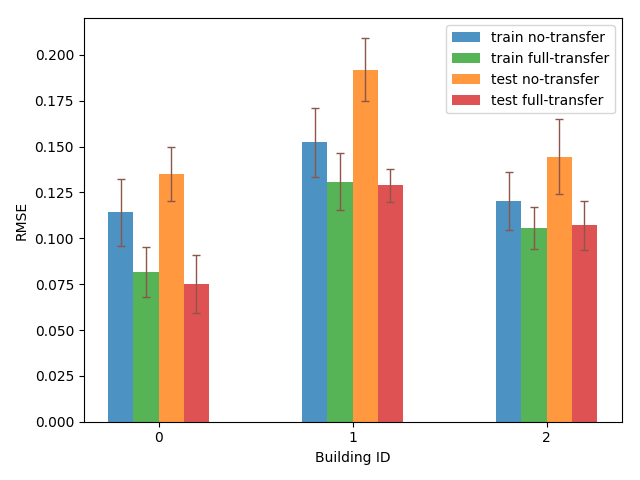
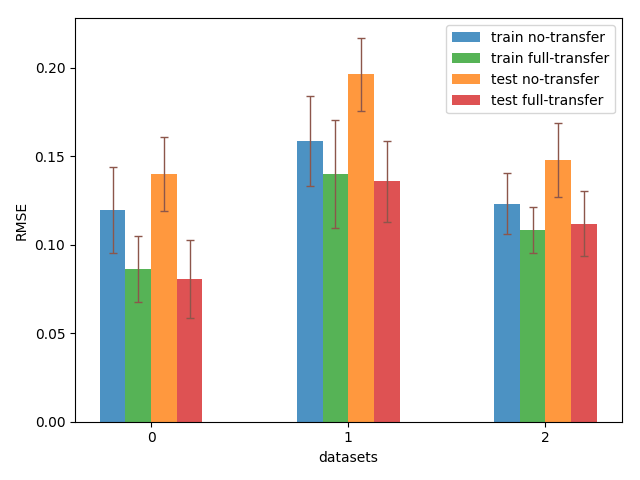
results for synthetic data plotted

diff --git a/transfer-learning/mcmc-transfer-learning/mcmc_transfer_regression.py b/transfer-learning/mcmc-transfer-learning/mcmc_transfer_regression.py
@@ -201,6 +201,9 @@ class TransferLearningMCMC:
 
     def rmse(self, predictions, targets):
         return np.sqrt(((predictions - targets) ** 2).mean())
+        
+#    def rmse(self, predictions, targets):
+#        return np.sum((targets- predictions) ** 2)/np.sum((targets - np.mean(targets)))
 
     def likelihood_func(self, neuralnet, data, w, tausq):
         y = data[:, self.topology[0]:]
@@ -651,7 +654,6 @@ class TransferLearningMCMC:
         stdscr.addstr(14, 4, "Mean: " + str(rmse_target_train_trf) + " Std: " + str(rmsetarget_std_train_trf))
         stdscr.addstr(16, 0, "Target Test rmse w/ transfer:")
         stdscr.addstr(17, 4, "Mean: " + str(rmse_target_test_trf) + " Std: " + str(rmsetarget_std_test_trf))
-        stdscr.getkey()
         stdscr.refresh()
 
 
@@ -695,7 +697,7 @@ if __name__ == '__main__':
 
 
     input = 4
-    hidden = 10
+    hidden = 15
     output = 1
     topology = [input, hidden, output]
 
@@ -711,39 +713,44 @@ if __name__ == '__main__':
 #    floor_id  = [0, 1, 2, 3]
     traindata = []
     testdata = []
-
-    traindata.append(np.genfromtxt('../../datasets/synthetic_data/source.csv',
-                                delimiter=','))
-    testdata.append(np.genfromtxt('../../datasets/synthetic_data/source.csv',
-                                delimiter=','))
-
+    
     stdscr = curses.initscr()
     curses.noecho()
     curses.cbreak()
 
-    targettraindata = np.genfromtxt('../../datasets/synthetic_data/target_train.csv', delimiter=',')
-    targettestdata = np.genfromtxt('../../datasets/synthetic_data/target_test.csv', delimiter=',')
-
-    random.seed(time.time())
-
-    numSamples = 2500# need to decide yourself
-    burnin = 0.1 * numSamples
-
     try:
-        mcmc_task = TransferLearningMCMC(numSamples, numSources, traindata, testdata, targettraindata, targettestdata, topology,  directory='synthetic_data')  # declare class
+    
+        targettraindata = np.genfromtxt('../../datasets/synthetic_data/target_train.csv', delimiter=',')
+        targettestdata = np.genfromtxt('../../datasets/synthetic_data/target_test.csv', delimiter=',')
+            
+        for index in range(7,8):
+            stdscr.clear()
+            traindata.append(np.genfromtxt('../../datasets/synthetic_data/source'+str(index + 1)+'.csv',
+                                        delimiter=','))
+            testdata.append(np.genfromtxt('../../datasets/synthetic_data/source'+str(index + 1)+'.csv',
+                                        delimiter=','))
 
-        # generate random weights
-        w_random = np.random.randn(mcmc_task.wsize)
-        w_random_target = np.random.randn(mcmc_task.wsize_target)
+            random.seed(time.time())
 
-    # start sampling
-        fx_train, _, accept_ratio = mcmc_task.sampler(w_random, w_random_target, save_knowledge=True, stdscr=stdscr)
-        # display train and test accuracies
-        mcmc_task.display_rmse()
+            numSamples = 4000# need to decide yourself
+
+
+            mcmc_task = TransferLearningMCMC(numSamples, numSources, traindata, testdata, targettraindata, targettestdata, topology,  directory='synthetic_data '+str(index+1))  # declare class
+
+            # generate random weights
+            w_random = np.random.randn(mcmc_task.wsize)
+            w_random_target = np.random.randn(mcmc_task.wsize_target)
+
+            # start sampling
+            fx_train, _, accept_ratio = mcmc_task.sampler(w_random, w_random_target, save_knowledge=True, stdscr=stdscr)
+            # display train and test accuracies
+            mcmc_task.display_rmse()
+
+
+            # Plot the accuracies and rmse
+            mcmc_task.plot_rmse('synthetic_data_'+str(index + 1))
+        
     finally:
-        curses.echo()
+        curses.echo()   
         curses.nocbreak()
         curses.endwin()
-
-    # Plot the accuracies and rmse
-    mcmc_task.plot_rmse('synthetic_data')

diff --git a/transfer-learning/mcmc-transfer-learning/synthetic_data/plot_rmse.py b/transfer-learning/mcmc-transfer-learning/synthetic_data/plot_rmse.py
@@ -1,0 +1,94 @@
+import numpy as np
+import matplotlib.pyplot as plt
+
+source_index = [index + 1 for index in range(10)]
+
+train_rmse = np.zeros((len(source_index)))
+test_rmse = np.zeros((len(source_index)))
+
+train_rmse_trf = np.zeros((len(source_index)))
+test_rmse_trf = np.zeros((len(source_index)))
+
+train_std_trf = np.zeros((len(source_index)))
+test_std_trf = np.zeros((len(source_index)))
+
+train_std = np.zeros((len(source_index)))
+test_std = np.zeros((len(source_index)))
+
+
+for index in source_index:
+
+    rmsetrain_trf = np.genfromtxt('synthetic_data '+str(index)+'/targettrftrainrmse.csv')
+    rmsetest_trf = np.genfromtxt('synthetic_data '+str(index)+'/targettrftestrmse.csv')
+
+    burnin = int(0.1 * rmsetrain_trf.shape[0])
+    stdtrain_trf = rmsetrain_trf[burnin: ].std(axis=0)
+    stdtest_trf = rmsetest_trf[burnin: ].std(axis=0)
+    rmsetrain_trf_mu = rmsetrain_trf[burnin: ].mean(axis=0)
+    rmsetest_trf_mu = rmsetest_trf[burnin: ].mean(axis=0)
+
+
+    train_rmse_trf[index-1] = rmsetrain_trf_mu
+    test_rmse_trf[index-1] = rmsetest_trf_mu
+    train_std_trf[index-1] = stdtrain_trf
+    test_std_trf[index-1] = stdtest_trf
+
+    # rmse and std for w/o transfer results
+    rmsetrain = np.genfromtxt('synthetic_data '+str(index)+'/targettrainrmse.csv')
+    rmsetest = np.genfromtxt('synthetic_data '+str(index)+'/targettestrmse.csv')
+    burnin = int(0.1 * rmsetrain.shape[0])
+    stdtrain = rmsetrain[burnin: ].std(axis=0)
+    stdtest = rmsetest[burnin: ].std(axis=0)
+    rmsetrain_mu = rmsetrain[burnin: ].mean(axis=0)
+    rmsetest_mu = rmsetest[burnin: ].mean(axis=0)
+
+    train_rmse[index-1] = rmsetrain_mu
+    test_rmse[index-1] = rmsetest_mu
+    train_std[index-1] = stdtrain
+    test_std[index-1] = stdtest
+
+n_groups = len(source_index)
+fig, ax = plt.subplots()
+index = np.arange(n_groups)
+bar_width = 0.18
+opacity = 0.8
+capsize = 1
+
+
+plt.bar(index + float(bar_width)/2, train_rmse, bar_width,
+                alpha = opacity,
+                error_kw = dict(elinewidth=0.8, ecolor='C5', capsize=capsize),
+                color = 'C0',
+                yerr = train_std,
+                label = 'train no-transfer')
+
+plt.bar(index + float(bar_width)/2 + bar_width, train_rmse_trf, bar_width,
+                alpha = opacity,
+                error_kw = dict(elinewidth=0.8, ecolor='C5', capsize=capsize),
+                color = 'C2',
+                yerr = train_std_trf,
+                label = 'train full-transfer')
+
+
+plt.bar(index + float(bar_width)/2 + 2 * bar_width, test_rmse, bar_width,
+                alpha = opacity,
+                error_kw = dict(elinewidth=0.8, ecolor='C5', capsize=capsize),
+                color = 'C1',
+                yerr = test_std,
+                label = 'test no-transfer')
+
+plt.bar(index + float(bar_width)/2 + 3 * bar_width , test_rmse_trf, bar_width,
+                alpha = opacity,
+                error_kw = dict(elinewidth=0.8, ecolor='C5', capsize=capsize),
+                color = 'C3',
+                yerr = test_std_trf,
+                label = 'test full-transfer')
+
+plt.title('Synthetic Data RMSE')
+plt.xlabel('datasets')
+plt.ylabel('RMSE')
+plt.xticks(index+2*bar_width, source_index, rotation=0)
+plt.legend()
+
+plt.tight_layout()
+plt.savefig('synthetic_data.png')

diff --git a/datasets/generate_synthetic_data.py b/datasets/generate_synthetic_data.py
@@ -2,35 +2,59 @@ import numpy as np
 from sklearn.model_selection import train_test_split
 import os
 
-epsilon = np.random.normal(0, 1, 1)
-delta = 0.2
+# define the number of input units
+input = 4
 
-x_target = np.abs(np.random.uniform(0, 1, 500 * 4).reshape((500,4)))
-w_target = np.random.randn(4,1)
+# define source and target dataset size
+source_size = 500
+target_size = 500
+
+# initialize the constants and target dataset input and output
+epsilon = np.random.normal(0, 1, 1)
+x_target = np.abs(np.random.uniform(0, 1, target_size * input).reshape((target_size,input)))
+w_target = np.random.randn(input,1)
 y_target = x_target.dot(w_target) + epsilon
 
 
+# initialize the variables for sources
+num_sources  = 0
+x = []
+y = []
 
 
-x_source = np.abs(np.random.uniform(0, 1, 500 * 4).reshape((500,4)))
-w_source = w_target + delta * np.random.randn(w_target.shape[0], w_target.shape[1])
-y_source = x_source.dot(w_source) + epsilon
 
 
+# Generate the sources with different delta values
+for delta in np.arange(0, 0.5, 0.05):
+    num_sources += 1
+    x_source = np.abs(np.random.uniform(0, 1, source_size * input).reshape((source_size,input)))
+    w_source = w_target + delta * np.random.randn(w_target.shape[0], w_target.shape[1])
+    y_source = x_source.dot(w_source) + epsilon
 
+    x.append(x_source)
+    y.append(y_source)
+
+x = np.array(x)
+y = np.array(y)
+
+
+#get the min and max y values from target and sources
+max_y = max(y_target)
+min_y = min(y_target)
+
+for index in range(num_sources):
+    if min_y > min(y[index]):
+        min_y = min(y[index])
+    if max_y > max(y[index]):
+        max_y = max(y[index])
+
+# initialize the min and max desired values of y
 a = 0
 b = 1
 
-max_y = max(max(y_target), max(y_source))
-min_y = min(min(y_target), min(y_source))
-
+# normalize the y values for target and save the target dataset
 y_target = a + (y_target - min_y)*(b - a)/(max_y - min_y)
-y_source = a + (y_source - min_y)*(b - a)/(max_y - min_y)
-
-
-sourcedata = np.c_[x_source, y_source]
-
-x_train, x_test, y_train, y_test  = train_test_split(x_target, y_target, test_size=0.9, random_state=45)
+x_train, x_test, y_train, y_test  = train_test_split(x_target, y_target, test_size=0.95, random_state=45)
 traindata = np.c_[x_train, y_train]
 testdata = np.c_[x_test, y_test]
 
@@ -39,6 +63,13 @@ directory = './synthetic_data'
 if not os.path.isdir(directory):
     os.mkdir(directory)
 
-np.savetxt(directory+'/source.csv', sourcedata, delimiter=',')
-np.savetxt(directory+'/targ0.2train.csv', traindata, delimiter=',')
+np.savetxt(directory+'/target_train.csv', traindata, delimiter=',')
 np.savetxt(directory+'/target_test.csv', testdata, delimiter=',')
+
+
+# normalize the source datasets and save the souce data
+for index in range(num_sources):
+    x_source = x[index]
+    y_source = a + (y[index] - min_y)*(b - a)/(max_y - min_y)
+    sourcedata = np.c_[x_source, y_source]
+    np.savetxt(directory+'/source'+str(index+1)+'.csv', sourcedata, delimiter=',')

diff --git a/transfer-learning/mcmc-transfer-learning/UJIndoorData/plot_rmse_results.py b/transfer-learning/mcmc-transfer-learning/UJIndoorData/plot_rmse_results.py
@@ -22,7 +22,7 @@ for index in range(len(building_id)):
     rmsetrain_trf = np.genfromtxt('building'+str(building)+'/targettrftrainrmse.csv')
     rmsetest_trf = np.genfromtxt('building'+str(building)+'/targettrftestrmse.csv')
     
-    burnin = int(0.2 * rmsetrain_trf.shape[0])
+    burnin = int(0.1 * rmsetrain_trf.shape[0])
     stdtrain_trf = rmsetrain_trf[burnin: ].std(axis=0)
     stdtest_trf = rmsetest_trf[burnin: ].std(axis=0)
     rmsetrain_trf_mu = rmsetrain_trf[burnin: ].mean(axis=0)
@@ -37,7 +37,7 @@ for index in range(len(building_id)):
     # rmse and std for w/o transfer results
     rmsetrain = np.genfromtxt('building'+str(building)+'/targettrainrmse.csv')
     rmsetest = np.genfromtxt('building'+str(building)+'/targettestrmse.csv')
-    burnin = int(0.2 * rmsetrain.shape[0])
+    burnin = int(0.1 * rmsetrain.shape[0])
     stdtrain = rmsetrain[burnin: ].std(axis=0)
     stdtest = rmsetest[burnin: ].std(axis=0)
     rmsetrain_mu = rmsetrain[burnin: ].mean(axis=0)
@@ -48,8 +48,9 @@ for index in range(len(building_id)):
     train_std[index] = stdtrain
     test_std[index] = stdtest
     
-    print(rmsetest_mu, rmsetest_trf_mu, stdtest, stdtest_trf)
-    
+#    print(rmsetest_mu, rmsetest_trf_mu, stdtest, stdtest_trf)
+
+  
 
 n_groups = len(building_id)
 fig, ax = plt.subplots()  
@@ -88,9 +89,9 @@ plt.bar(index + float(bar_width)/2 + 3 * bar_width , test_rmse_trf, bar_width,
                 yerr = test_std_trf,
                 label = 'test full-transfer')    
             
-plt.xlabel('Building ID')
+plt.xlabel('datasets')
 plt.ylabel('RMSE')
-plt.xticks(index+2*bar_width, building_id, rotation=0)
+plt.xticks(index+2*bar_width, building_id + [3], rotation=0)
 plt.legend()
 
 plt.tight_layout()
